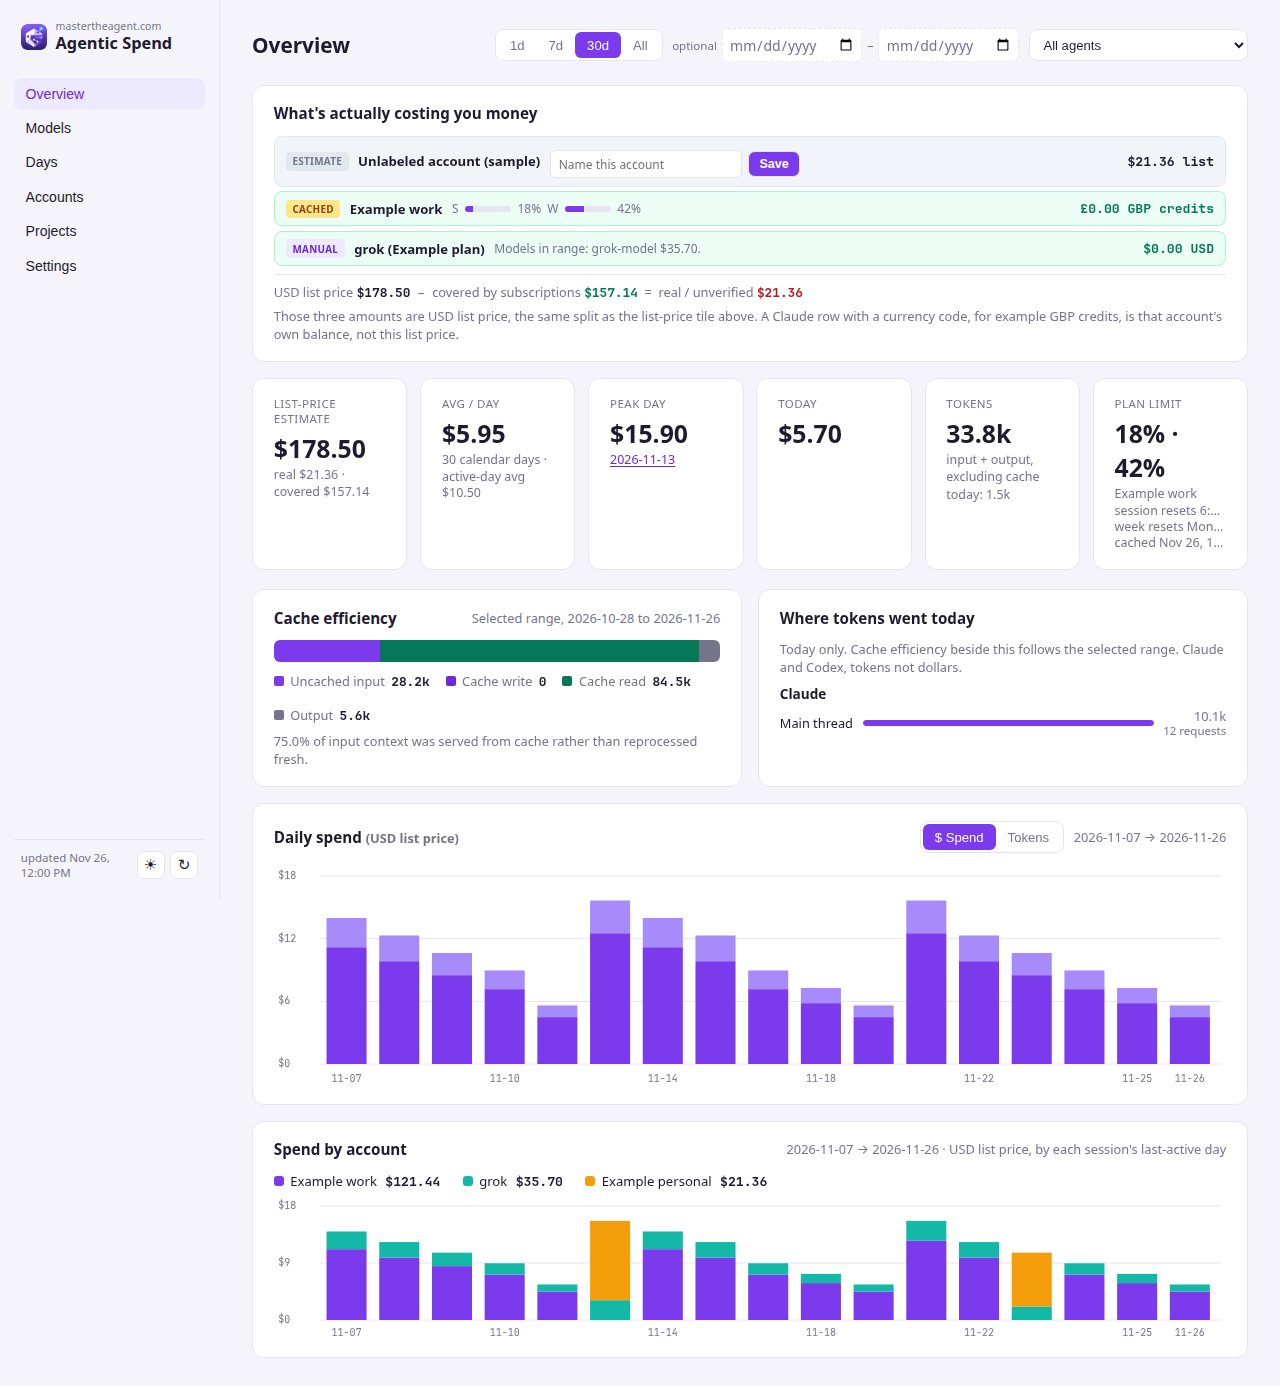
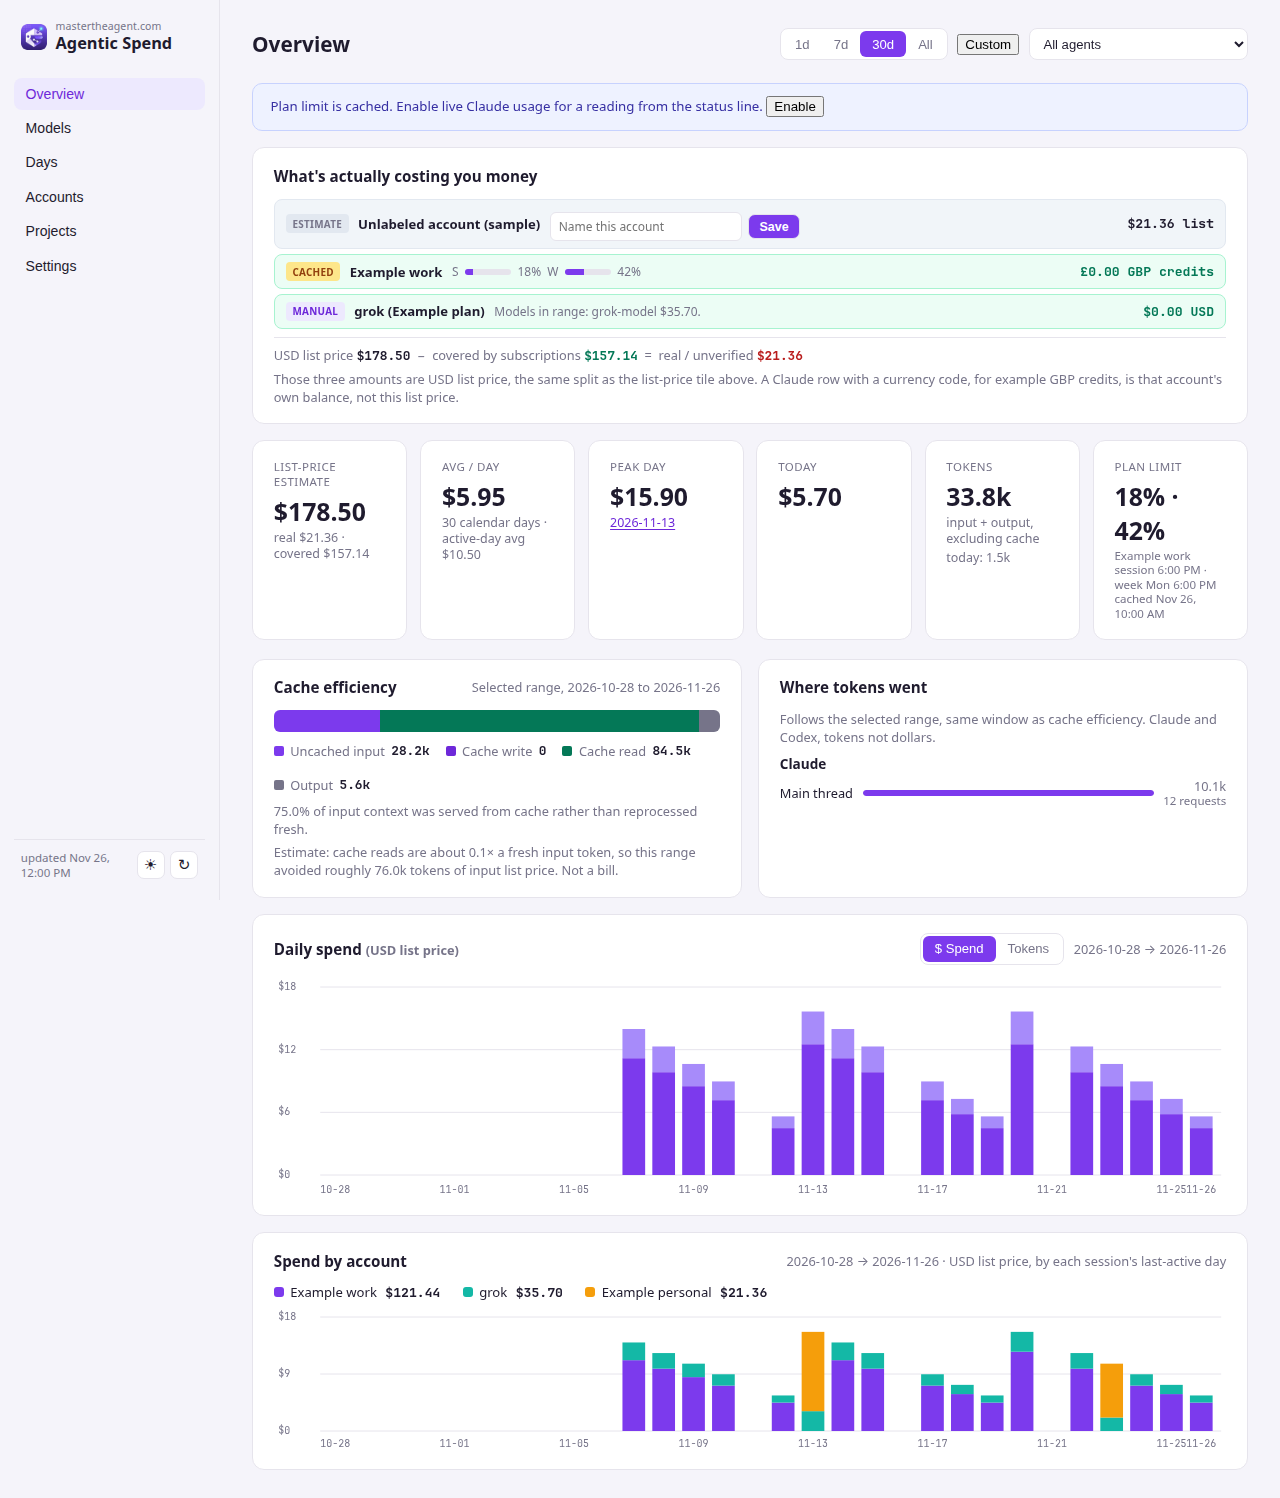
Show Grok CLI projects and the Grok Bot note
Grok sessions join Projects and the account menu. The cost row says
when the tick total was split by tokens, or when cost is unverified.
Settings records a Grok Bot plan, weekly percent, and reset without
calling out. README and sample screenshots match the new range behaviour.

diff --git a/dashboard.html b/dashboard.html
@@ -672,6 +672,15 @@
       other tabs but is approximate for sessions spanning midnight.
       Dollar figures on this page are USD list price. Usage credits further down use the account's
       own currency and include the currency code.
+      Grok CLI sessions do not record the account. A session updated after this app last looked
+      is tagged with whoever is signed in to the grok CLI then. Older sessions stay
+      "Unattributed Grok account" until you name them here.
+    </div>
+    <div class="card" id="grokBotCard" style="margin-bottom:1rem;">
+      <div class="card-head"><h2>Grok Bot</h2></div>
+      <p class="muted">There is no token or cost feed for Grok Bot. The figures above are the Grok CLI only.</p>
+      <p>Check usage in the Grok Bot app (Settings &gt; Usage &amp; Billing).</p>
+      <p class="muted" id="grokBotSaved"></p>
     </div>
     <div class="muted" style="margin-bottom: 0.8rem;" id="maxUsageIntro"></div>
     <div id="maxUsageContainer" style="display:flex; flex-direction:column; gap:1rem; margin-bottom:1rem;"></div>
@@ -688,8 +697,9 @@
 
   <section id="view-projects" class="view">
     <div class="banner">
-      Spend per repo for Claude Code, using the working directory each session transcript records.
-      Claude-only, same as Accounts — the other CLI agents don't record a project path in their logs.
+      Spend per repo for Claude Code and the Grok CLI. Claude uses the working directory in the
+      transcript. Grok uses the folder name under ~/.grok/sessions, which is the project path.
+      Other CLI agents still do not record a project path.
       Sessions whose directory wasn't captured land in "Unattributed" rather than silently dropping.
       The account menu above filters these rows. Long paths are shortened; the full path is on the row tooltip.
     </div>
@@ -2050,6 +2060,29 @@ function sourceRow(s, estimate, modelDetail, openaiCost) {
     `, title: `${blocked ? 'Plan limit reached — may be drawing on credits.' : 'covered by plan'}${openaiCost && !openaiCost.error ? ' — Admin-key Costs API also configured, used above once the plan limit is hit' : ''} — real numbers via Codex's own \`account/rateLimits/read\`, fetched ${new Date(cx.fetchedAt).toLocaleString()}.` };
   }
 
+  if (s.kind === 'local-live') {
+    const amount = s.costKnown === false ? 'cost unverified' : `${fmt(estimate)} CLI`;
+    return { cls: '', html: `
+      ${srcChip('LIVE', 'live')}
+      <span class="src-label">${escHtml(s.label)}</span>
+      <span class="src-extra">local usage.json</span>
+      <span class="src-amount tnum">${amount}</span>
+    `, title: s.note || '' };
+  }
+
+  if (s.grokBot) {
+    const bits = [];
+    if (s.plan) bits.push(escHtml(s.plan));
+    if (s.weeklyLimitPercent != null) bits.push(`${escHtml(s.weeklyLimitPercent)}% of weekly limit`);
+    if (s.resetsAt) bits.push('resets ' + escHtml(s.resetsAt));
+    return { cls: '', html: `
+      ${srcChip(s.kind === 'manual' ? 'MANUAL' : 'ESTIMATE', s.kind === 'manual' ? 'manual' : '')}
+      <span class="src-label">${escHtml(s.label)}</span>
+      <span class="src-extra">${bits.join(' · ') || 'no token or cost feed'}</span>
+      <span class="src-amount tnum">no feed</span>
+    `, title: `${s.note || ''} Check usage in the Grok Bot app (Settings > Usage & Billing).` };
+  }
+
   if (s.tool === 'grok' && s.kind === 'unofficial-live') {
     const gb = s.grokBilling, onDemand = gb.onDemandUsedUsd ?? 0;
     const mismatch = s.manualPlan && gb.plan && s.manualPlan.toLowerCase() !== gb.plan.toLowerCase();
@@ -2098,7 +2131,7 @@ function planAgentOptionsHtml(sources) {
   // Only tools with no automatic (official-live/official-cached) source of
   // their own — those get a row in the summary table above instead.
   const all = (sources || [])
-    .filter(s => s.tool !== 'claude' && s.kind !== 'official-live' && s.kind !== 'official-cached')
+    .filter(s => s.tool !== 'claude' && !s.grokBot && s.kind !== 'local-live' && s.kind !== 'official-live' && s.kind !== 'official-cached')
     .map(s => s.tool);
   return [...new Set(all)].sort().map(a => `<option value="${a}">${a}</option>`).join('');
 }
@@ -2127,6 +2160,31 @@ function fillPlanForm(agent, plans) {
 function currentPlanName() {
   const tierSel = document.getElementById('planTierSelect');
   return tierSel.value === '__custom__' ? document.getElementById('planNameCustom').value : tierSel.value;
+}
+
+async function saveGrokBotForm() {
+  const status = document.getElementById('grokBotStatus');
+  status.textContent = 'Saving…';
+  try {
+    const res = await fetch('/api/plans', {
+      method: 'POST', headers: { 'Content-Type': 'application/json' },
+      body: JSON.stringify({
+        agent: 'grok-bot',
+        plan: document.getElementById('grokBotPlan').value,
+        coveredByPlan: false,
+        note: document.getElementById('grokBotNote').value,
+        asOf: document.getElementById('grokBotAsOf').value,
+        weeklyLimitPercent: document.getElementById('grokBotPct').value,
+        resetsAt: document.getElementById('grokBotReset').value,
+      }),
+    });
+    const json = await res.json();
+    if (!json.ok) throw new Error(json.error);
+    status.textContent = 'Saved on this machine.';
+    load(true);
+  } catch (e) {
+    status.textContent = 'Error: ' + e.message;
+  }
 }
 
 async function savePlanForm() {
@@ -2217,6 +2275,7 @@ let lastPlansCtx = null;
 // detail line built from data already fetched, for sources with no
 // account/plan concept of their own (the fix for "opencode has no detail").
 function sourceRangeEstimate(s, accountSessions, days, cutoff, today) {
+  if (s.grokBot) return { estimate: 0, modelDetail: '' };
   if (s.tool === 'claude') {
     const cost = (accountSessions || [])
       .filter(r => r.accountUuid === s.id && r.period >= cutoff && r.period <= today)
@@ -2227,7 +2286,7 @@ function sourceRangeEstimate(s, accountSessions, days, cutoff, today) {
   let cost = 0;
   days.filter(d => d.period >= cutoff && d.period <= today).forEach(d => {
     (d.agents || []).forEach(sub => {
-      if (sub.agent !== s.tool) return;
+      if (sub.agent !== (s.tool === 'grok-cli' ? 'grok' : s.tool)) return;
       cost += sub.totalCost;
       (sub.modelBreakdowns || []).forEach(mb => { modelTotals[mb.modelName] = (modelTotals[mb.modelName] || 0) + mb.cost; });
     });
@@ -2263,7 +2322,13 @@ function renderRealCostOverview(sources, accountSessions, days, cutoff, today, p
   // few % for sessions spanning midnight) lands on the $0 "covered" side
   // instead of silently zeroing out real money that's actually unverified.
   let realTotal = 0;
+  const hasGrokCli = (sources || []).some(s => s.kind === 'local-live');
   rows.forEach(({ s, estimate }) => {
+    if (hasGrokCli && s.kind === 'unofficial-live' && s.tool === 'grok') {
+      const extra = (s.grokBilling && s.grokBilling.onDemandUsedUsd) || 0;
+      if (extra > 0) realTotal += extra;
+      return;
+    }
     const covered =
       (s.tool === 'claude' && s.maxUsage && (s.maxUsage.usageCredits || {}).usedMinor === 0) ||
       (s.tool === 'codex' && s.kind === 'official-live' && s.codexLive.ordinaryUsageAllowed !== false) ||
@@ -2401,6 +2466,7 @@ const KIND_BADGE = {
   'official-cached': { bg: 'var(--heavy-pill-bg)', fg: 'var(--heavy-pill-text)', text: 'cached' },
   'unofficial-live': { bg: 'var(--ok-bg)', fg: 'var(--ok-text)', text: 'unofficial live' },
   'manual': { bg: 'var(--neutral-bg)', fg: 'var(--text)', text: 'manual note' },
+  'local-live': { bg: 'var(--ok-bg)', fg: 'var(--ok-text)', text: 'local' },
   'none': { bg: 'var(--neutral-bg)', fg: 'var(--muted)', text: 'no data' },
 };
 
@@ -2490,6 +2556,23 @@ function renderSettingsPage() {
         ${grokOn ? '<button id="grokRefreshBtn">Refresh now</button>' : ''}
         <span class="muted" id="grokToggleStatus">${grokOn && grokBilling ? 'last fetched ' + (grokBilling.fetchedAt ? new Date(grokBilling.fetchedAt).toLocaleString() : 'never') : ''}</span>
       </div>
+
+      <div class="muted" style="font-weight:600; color:var(--text); margin:0.9rem 0 0.3rem; border-top:1px solid var(--border); padding-top:0.7rem;">Grok Bot</div>
+      <p class="muted">No token or cost feed. Type what the app shows. This does not call Grok.</p>
+      <p>Check usage in the Grok Bot app (Settings &gt; Usage &amp; Billing).</p>
+      <div style="display:flex; gap:0.6rem; flex-wrap:wrap; align-items:flex-end;">
+        <label>Plan name<br><input id="grokBotPlan" value="${escAttr((plans || {})['grok-bot'] && (plans || {})['grok-bot'].plan || '')}" placeholder="e.g. SuperGrok"></label>
+        <label>Weekly limit %<br><input id="grokBotPct" type="number" min="0" max="100" value="${escAttr((plans || {})['grok-bot'] && (plans || {})['grok-bot'].weeklyLimitPercent != null ? (plans || {})['grok-bot'].weeklyLimitPercent : '')}" style="width:6rem;"></label>
+        <label>Reset<br><input id="grokBotReset" value="${escAttr((plans || {})['grok-bot'] && (plans || {})['grok-bot'].resetsAt || '')}" placeholder="e.g. Monday 00:00"></label>
+        <label>Checked on<br><input id="grokBotAsOf" type="date" value="${escAttr((plans || {})['grok-bot'] && (plans || {})['grok-bot'].asOf || '')}"></label>
+      </div>
+      <label style="display:block; margin-top:0.5rem;">Note<br>
+        <textarea id="grokBotNote" rows="2" style="width:100%;">${escHtml((plans || {})['grok-bot'] && (plans || {})['grok-bot'].note || '')}</textarea>
+      </label>
+      <div style="display:flex; align-items:center; gap:0.6rem; margin-top:0.5rem;">
+        <button type="button" id="grokBotSave">Save Grok Bot note</button>
+        <span class="muted" id="grokBotStatus"></span>
+      </div>
     </div>
   `;
 
@@ -2512,6 +2595,7 @@ function renderSettingsPage() {
   document.getElementById('planSaveBtn').onclick = savePlanForm;
   document.getElementById('planDeleteBtn').onclick = deletePlanForm;
 
+  document.getElementById('grokBotSave').onclick = saveGrokBotForm;
   document.getElementById('grokToggle').onchange = e => toggleGrokLive(e.target.checked);
   const grokRefreshBtn = document.getElementById('grokRefreshBtn');
   if (grokRefreshBtn) grokRefreshBtn.onclick = refreshGrokBilling;
@@ -2927,17 +3011,27 @@ function update() {
   const agents = new Set();
   days.forEach(d => (d.metadata && d.metadata.agents || []).forEach(a => agents.add(a)));
   const claudeAccounts = (data.sources || []).filter(s => s.tool === 'claude');
+  const grokSeen = new Set();
+  const grokAccounts = [];
+  (data.accountSessions || []).forEach(s => {
+    if (s.agent === 'grok' && s.accountUuid && !grokSeen.has(s.accountUuid)) {
+      grokSeen.add(s.accountUuid);
+      grokAccounts.push(s);
+    }
+  });
   const sel = document.getElementById('agentSel');
-  const builtKey = [...agents].join(',') + '|' + claudeAccounts.map(a => a.id + ':' + (a.label || '')).join(',');
+  const builtKey = [...agents].join(',') + '|' + claudeAccounts.map(a => a.id + ':' + (a.label || '')).join(',') + '|' + grokAccounts.map(a => a.accountUuid + ':' + (a.label || '')).join(',');
   if (sel.options.length <= 1 || sel.dataset.built !== builtKey) {
     const prev = agent;
     const toolOptions = [...agents].sort().map(a => `<option value="${escAttr(a)}">${escHtml(a)}</option>`).join('');
     const acctOptions = claudeAccounts.map(a => `<option value="account:${escAttr(a.id)}">${escHtml(a.label)}</option>`).join('');
+    const grokOptions = grokAccounts.map(a => `<option value="account:${escAttr(a.accountUuid)}">${escHtml(a.label)}</option>`).join('');
     sel.innerHTML = '<option value="all">All agents</option>'
       + toolOptions
-      + (acctOptions ? `<optgroup label="Claude accounts">${acctOptions}</optgroup>` : '');
+      + (acctOptions ? `<optgroup label="Claude accounts">${acctOptions}</optgroup>` : '')
+      + (grokOptions ? `<optgroup label="Grok accounts">${grokOptions}</optgroup>` : '');
     sel.dataset.built = builtKey;
-    const validValues = new Set(['all', ...agents, ...claudeAccounts.map(a => 'account:' + a.id)]);
+    const validValues = new Set(['all', ...agents, ...claudeAccounts.map(a => 'account:' + a.id), ...grokAccounts.map(a => 'account:' + a.accountUuid)]);
     sel.value = validValues.has(prev) ? prev : 'all';
     agent = sel.value;
   }
@@ -3132,6 +3226,13 @@ function update() {
 
   // ---- accounts (uses the same range picker as every other tab) ----
   if (tab === 'accounts') {
+    const botSaved = document.getElementById('grokBotSaved');
+    if (botSaved) {
+      const bot = (data.plans || {})['grok-bot'];
+      botSaved.textContent = bot && (bot.plan || bot.weeklyLimitPercent != null)
+        ? `Saved note: ${bot.plan || 'plan'} ${bot.weeklyLimitPercent != null ? bot.weeklyLimitPercent + '% of the weekly limit' : ''} ${bot.resetsAt ? 'resets ' + bot.resetsAt : ''}. Edit it in Settings.`
+        : 'Save a manual note in Settings.';
+    }
     renderMaxUsage(data.maxUsage);
     document.getElementById('acctRangeNote').textContent =
       (range >= 9999 && !customFrom && !customTo) ? 'All time' : `${cutoff} → ${windowEnd}`;
@@ -3195,8 +3296,10 @@ function update() {
       const acct = (data.accounts || []).find(a => a.accountUuid === uuid)
         || (data.sources || []).find(s => s.tool === 'claude' && s.id === uuid);
       rangeLabel += acct && acct.label ? ` · ${acct.label}` : ' · one Claude account';
+    } else if (agent === 'grok') {
+      rangeLabel += ' · Grok CLI';
     } else if (agent && agent !== 'all' && agent !== 'claude') {
-      rangeLabel += ' · Claude Code only, so this tool has no project rows';
+      rangeLabel += ' · no project rows for this filter';
     }
     document.getElementById('projRangeNote').textContent = rangeLabel;
 
@@ -3206,14 +3309,18 @@ function update() {
     if (typeof agent === 'string' && agent.startsWith('account:')) {
       const uuid = agent.slice('account:'.length);
       sessionsInRange = sessionsInRange.filter(s => s.accountUuid === uuid);
-    } else if (agent && agent !== 'all' && agent !== 'claude') {
+    } else if (agent === 'grok') {
+      sessionsInRange = sessionsInRange.filter(s => s.agent === 'grok');
+    } else if (agent === 'claude') {
+      sessionsInRange = sessionsInRange.filter(s => s.agent !== 'grok');
+    } else if (agent && agent !== 'all') {
       sessionsInRange = [];
     }
     const projAgg = {};
     sessionsInRange.forEach(s => {
       const bucket = projAgg[s.project] || (projAgg[s.project] = { project: s.project, cost: 0, sessions: 0, tokens: 0 });
       bucket.cost += s.totalCost;
-      bucket.sessions += 1;
+      bucket.sessions += s.sessions || 1;
       bucket.tokens += (s.modelBreakdowns || []).reduce((sum, mb) => sum + (mb.inputTokens || 0) + (mb.outputTokens || 0), 0);
     });
     const projectRows = Object.values(projAgg).sort((a, b) => {
@@ -3222,9 +3329,9 @@ function update() {
       return projectSort.dir * (a[k] > b[k] ? 1 : -1);
     });
     markSort('projectsTable', projectSort);
-    const emptyCopy = (agent && agent !== 'all' && agent !== 'claude' && !String(agent).startsWith('account:'))
-      ? 'Projects are Claude Code only, so this filter has no rows.'
-      : 'No Claude sessions in this range.';
+    const emptyCopy = (agent && agent !== 'all' && agent !== 'claude' && agent !== 'grok' && !String(agent).startsWith('account:'))
+      ? 'Projects include Claude Code and the Grok CLI. This filter has no project rows.'
+      : 'No Claude or Grok sessions in this range.';
 
     document.querySelector('#projectsTable tbody').innerHTML = projectRows.map(p => {
       const path = shortenPath(p.project);

diff --git a/README.md b/README.md
@@ -152,28 +152,38 @@ match a manual plan note you've saved, the UI flags it rather than silently pref
   timestamp, so a past hour is final rather than drifting forward as a long session keeps running.
   Every other tool only has a session's last-active moment to go on, so those bars can still move.
   Hourly data is collected for today only. Choosing an earlier day hides the hourly card.
-- **Cache efficiency** and **Where tokens went today** sit side by side, and each says which
-  window it uses. Cache efficiency follows the selected range: uncached input / cache write /
-  cache read / output, straight from fields ccusage already provides in `modelBreakdowns`. Where
-  tokens went today is today only. It splits main thread vs. subagents vs. compaction vs.
-  auto-review, for Claude Code and Codex (the only two tools with enough local transcript detail
-  for this). It reads the raw transcripts directly, not ccusage, tokens only, since there is no
-  pricing per bucket.
+- **Cache efficiency** and **Where tokens went** sit side by side and follow the selected range.
+  Cache efficiency is uncached input / cache write / cache read / output, straight from fields
+  ccusage already provides in `modelBreakdowns`, plus an estimate that cache reads cost about
+  0.1x a fresh input token. Where tokens went splits main thread vs. subagents vs. compaction
+  vs. auto-review, for Claude Code and Codex. The title names the window ("last 30 days", or
+  "on 24 Nov 2026"). All is capped at the last 90 days so the transcript parse stays fast.
 - **Days** has a token count alongside cost for every date, with a breakdown (real vs. including
   cache) on hover. Clicking a heatmap cell, a table row, the peak-day date, or a daily bar sets
   that one day as the range and shows a "Showing 24 Nov 2026" chip. Back returns to the previous
-  range. The header dates are the only date control. Spend by account uses the same header filter
-  as Daily spend.
-- **Projects** (its own tab, next to Accounts): spend per repo, using each session's real working
-  directory as recorded in its own transcript. Claude-only, same scope as Accounts. Long paths are
-  shortened (home becomes `~`, the middle collapses) and the full path stays on the tooltip. The
-  account menu filters this tab the same way it filters Overview.
+  range, including a tab or account change. Custom from/to dates stay behind a Custom control.
+  Days with no spend still take a column, at $0. Spend by account uses the same header filter.
+- **Projects** (its own tab, next to Accounts): spend per repo. Claude uses the working directory
+  in the transcript. The Grok CLI uses the decoded folder name under `~/.grok/sessions`. Long
+  paths are shortened (home becomes `~`, the middle collapses) and the full path stays on the
+  tooltip. Columns sort, and there is a token count (input plus output, excluding cache).
 - **Account names:** an account that still has no name can be named from its Accounts card, from
   its estimate row on Overview, or from the Settings table. A named account can still be renamed
   from its card. The name is saved on this machine in `account-labels.json` (see
   `account-labels.json.example`). It is not written into source. The sidebar has the theme toggle
   and an "updated" time taken from the server. If a refresh fails, that stamp says the figure is
-  cached.
+  cached and a one-line banner offers Retry.
+- **Grok CLI:** `~/.grok/sessions/<project>/<session>/usage.json` is read locally. Turns are
+  bucketed by the local date of `endedAt`. `costUsdTicks` is 10^10 ticks per USD (Grok's own
+  `grok usage` guide). Turns have no cost of their own, so the session total is split by token
+  share and labelled as such. Session files do not record the account. A session updated after
+  the last time this app looked is tagged with the account currently in `~/.grok/auth.json`.
+  Older sessions stay "Unattributed Grok account" until you name them. The map is
+  `grok-account-map.json` in the data directory (see the example). The unofficial
+  `_x.ai/billing` reading is unchanged and still opt-in.
+- **Grok Bot:** there is no token or cost feed. Settings has a manual note (plan name, weekly
+  limit percent, reset). Check usage in the Grok Bot app (Settings > Usage & Billing). Nothing
+  is scraped.
 - **Plan usage over time** (on the Accounts page) — a chart of the 5h/weekly/30-day window
   percentage, not just the current reading. Claude's history accumulates going forward from the
   status line; Codex's is backfilled for real from its own rollout files, which already carry a
